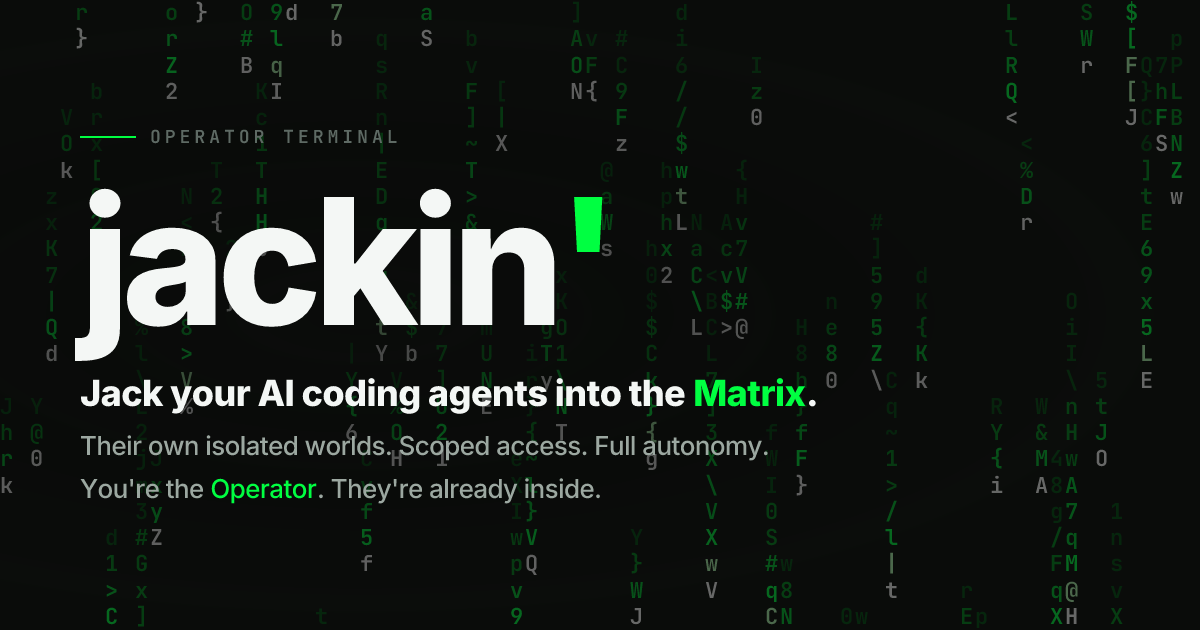
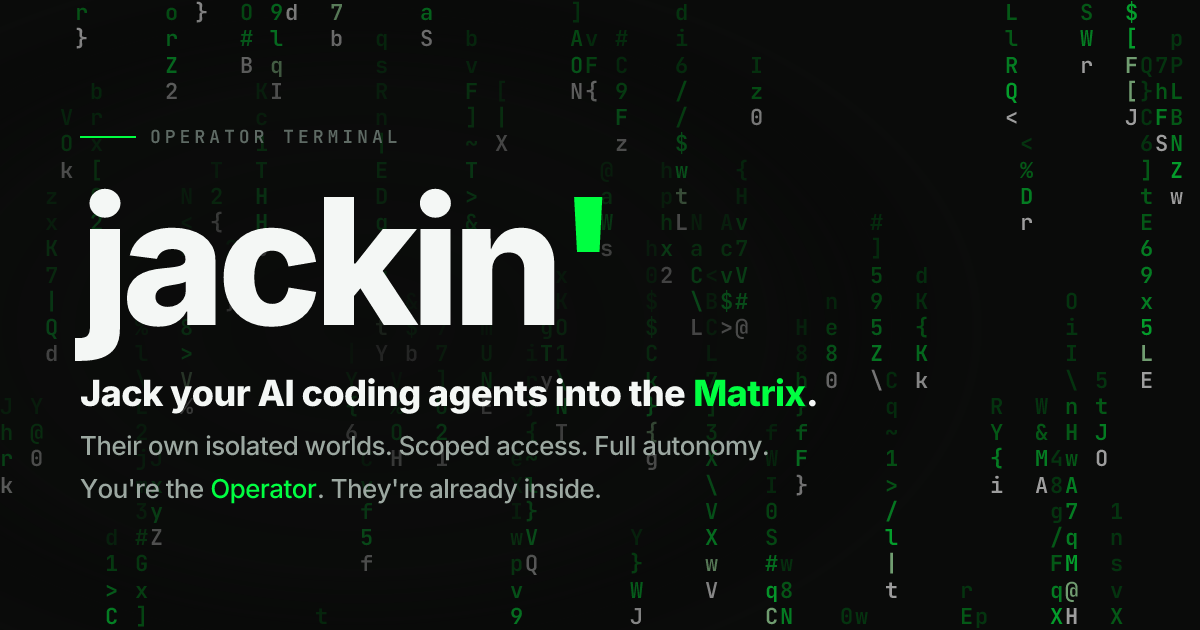
style(docs): focus OG rain darken on the text region
The previous pass dimmed the rain uniformly (62% black everywhere),
which suppressed the phosphor-rain feel on the right-hand side while still
letting rain bleed through the left where the text lives.

Swaps for a targeted approach:
- Lighter global dim (40%) so rain reads ambient instead of muddy
  over the whole canvas.
- A strong focused radial behind the text block — 88% black at
  (30%, 52%) fading to transparent at 85% — so the wordmark and
  tagline sit on a visibly dark floor while the rain to the right
  and in the corners stays at full atmospheric brightness.

diff --git a/docs/scripts/gen-og.ts b/docs/scripts/gen-og.ts
@@ -178,7 +178,9 @@ const tree = h(
       backgroundRepeat: 'no-repeat',
     },
   }),
-  // Dim overlay — 62% black so the rain reads as mood, not content.
+  // Light global dim — knocks the rain from "bright" to "ambient"
+  // without killing it. Kept subtle (40%) so the Matrix character
+  // still reads on the right-hand side where there's no text.
   h('div', {
     style: {
       position: 'absolute',
@@ -187,10 +189,13 @@ const tree = h(
       right: 0,
       bottom: 0,
       display: 'flex',
-      backgroundColor: 'rgba(10, 11, 10, 0.62)',
+      backgroundColor: 'rgba(10, 11, 10, 0.4)',
     },
   }),
-  // Soft radial behind the text block so the tagline pops.
+  // Strong focused darken behind the text block only. Ellipse sits
+  // over the left ~60% of the canvas where the wordmark and tagline
+  // live; the rain under those glyphs reads near-black, while the
+  // rain to the right stays fully atmospheric.
   h('div', {
     style: {
       position: 'absolute',
@@ -200,7 +205,7 @@ const tree = h(
       bottom: 0,
       display: 'flex',
       backgroundImage:
-        'radial-gradient(ellipse at 30% 50%, rgba(10,11,10,0.4), transparent 70%)',
+        'radial-gradient(ellipse 62% 70% at 30% 52%, rgba(10,11,10,0.88), rgba(10,11,10,0.55) 55%, transparent 85%)',
     },
   }),
   // Content
